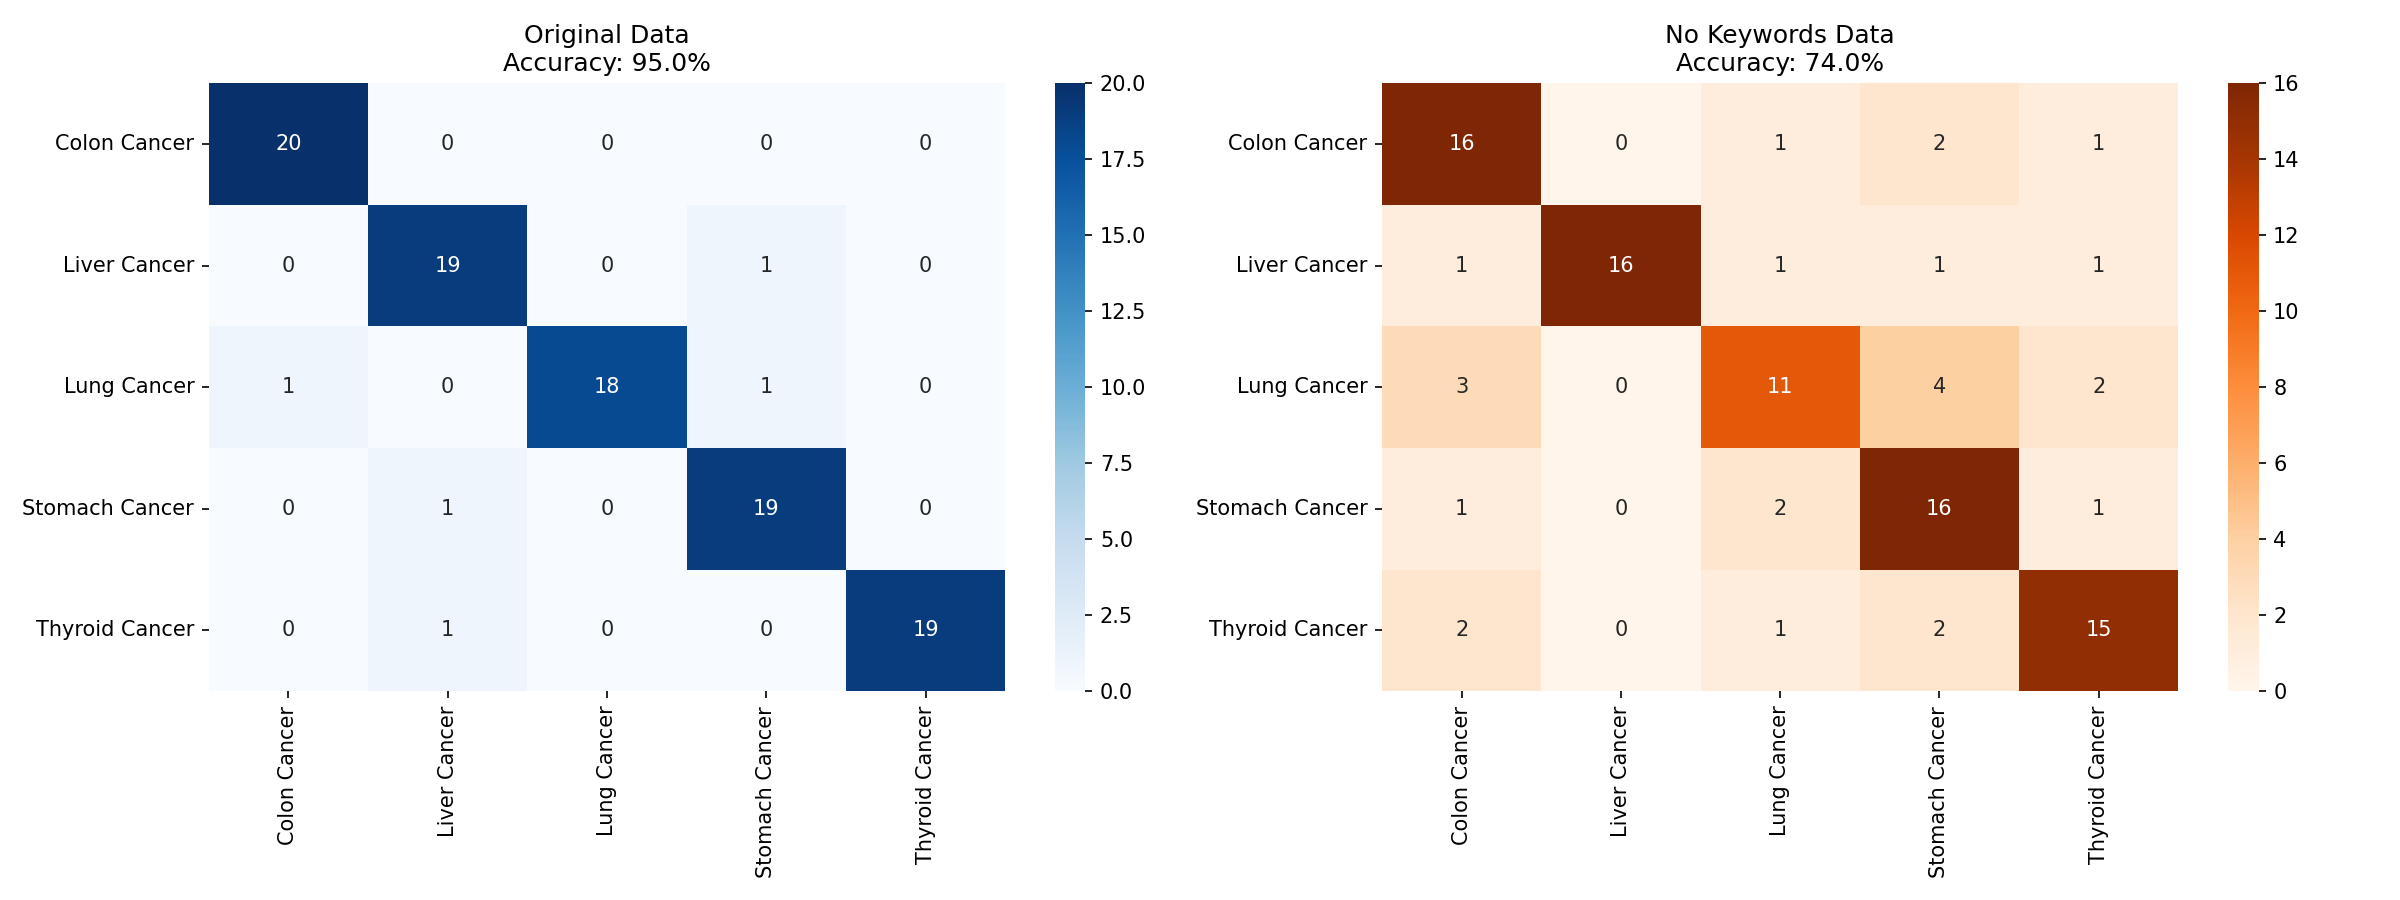
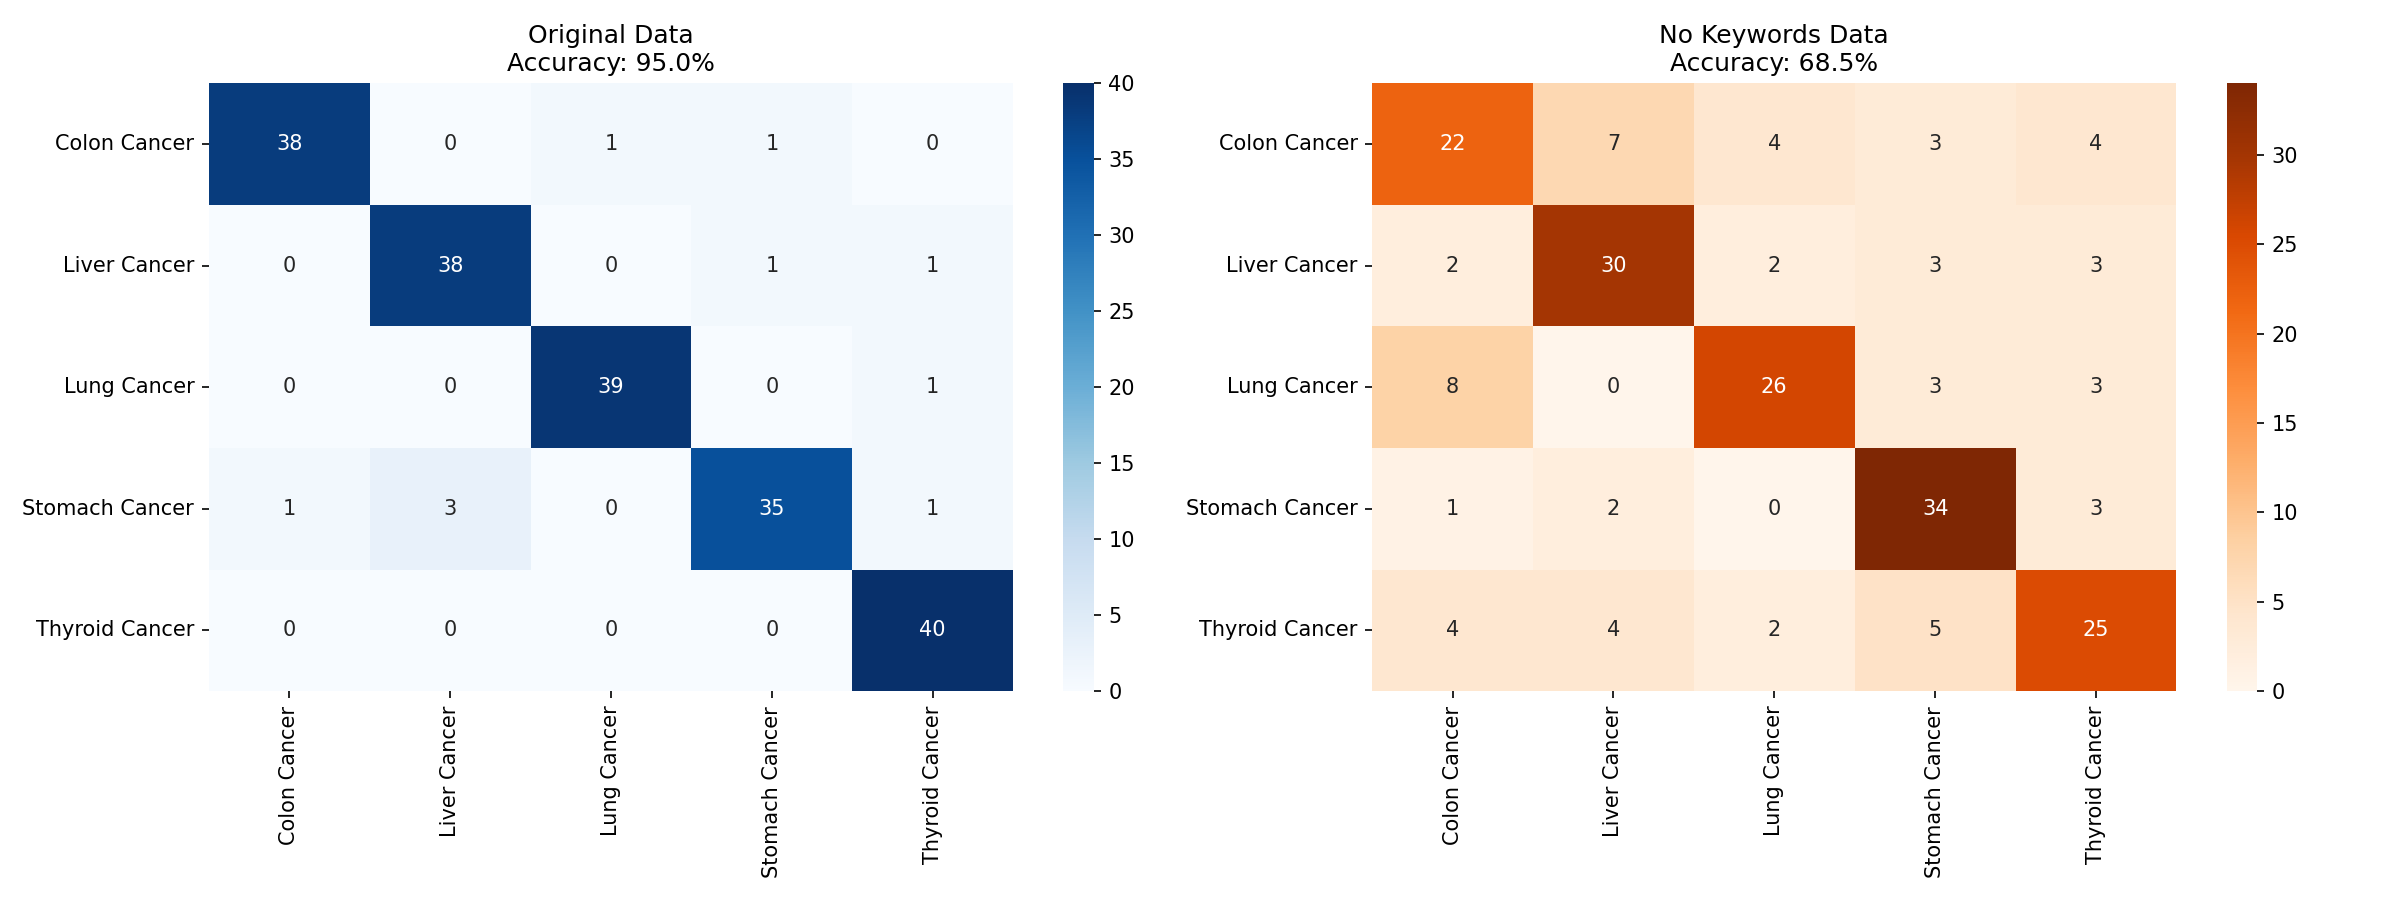
fix: data split bug on error analysis section

diff --git a/error_analysis_new.py b/error_analysis_new.py
@@ -32,8 +32,8 @@ warnings.filterwarnings('ignore')
 # 配置
 # =============================================================================
 RANDOM_STATE = 42
-TEST_SIZE = 0.20  # 20% for test
-VAL_SIZE = 0.50   # 50% of remaining = 10% of total = 20%
+TEST_SIZE = 0.40  # 40% to Temp, then 50% to Test = 20% of total
+VAL_SIZE = 0.50   # 50% of Temp to Validation = 20% of total
 
 LABEL_NAMES = {
     0: "Colon Cancer",
